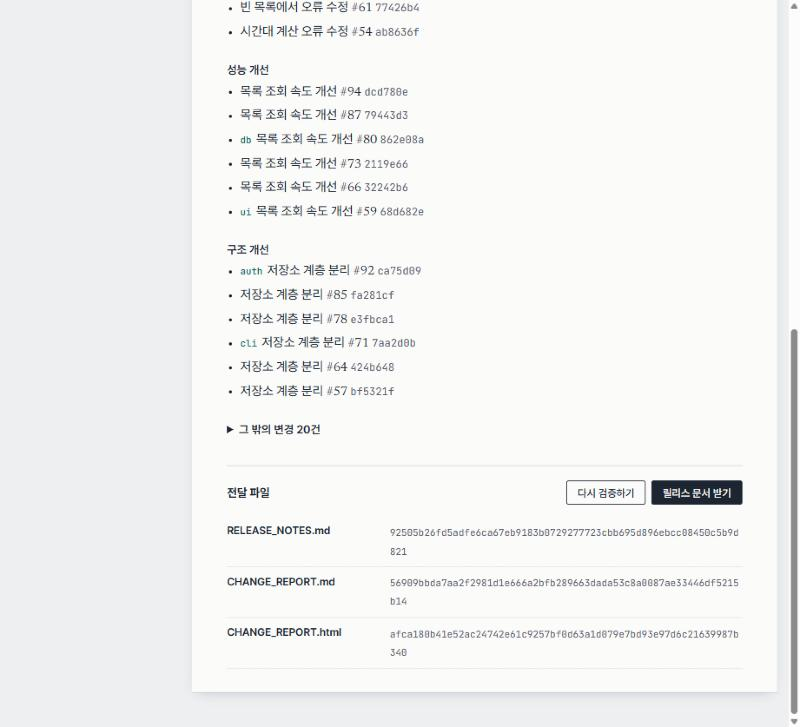
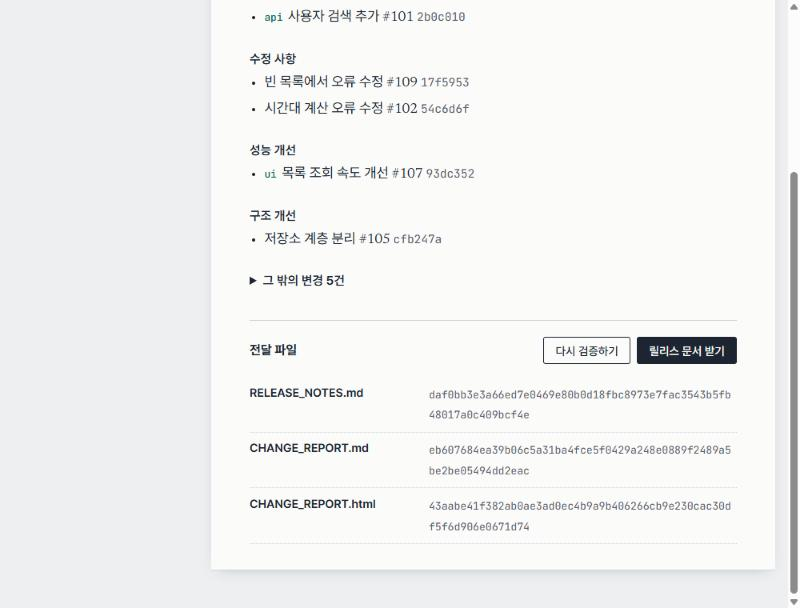
docs: 글꼴 내장, README를 서명·설치·보장 범위 기준으로 갱신, 화면 캡처 교체
- Google Fonts·jsDelivr 대신 @fontsource-variable·pretendard 패키지로 글꼴을 빌드에 포함(OFL)
- README: keygen/--key/--pubkey/--sha256 사용법, 무결성 보장 범위 표, 설치·Docker 실행법, 실제 줄 수와 테스트 수
- 서명 상태가 보이는 화면으로 캡처 3장 교체

diff --git a/web/index.html b/web/index.html
@@ -4,16 +4,6 @@
     <meta charset="utf-8" />
     <meta name="viewport" content="width=device-width, initial-scale=1" />
     <title>ShipNote 릴리스 이력</title>
-    <link rel="preconnect" href="https://fonts.googleapis.com" />
-    <link rel="preconnect" href="https://fonts.gstatic.com" crossorigin />
-    <link
-      href="https://fonts.googleapis.com/css2?family=Archivo:wdth,wght@62..125,500..700&family=JetBrains+Mono:wght@400;500&family=Newsreader:opsz,wght@6..72,400..600&display=swap"
-      rel="stylesheet"
-    />
-    <link
-      rel="stylesheet"
-      href="https://cdn.jsdelivr.net/gh/orioncactus/pretendard@v1.3.9/dist/web/variable/pretendardvariable-dynamic-subset.min.css"
-    />
   </head>
   <body>
     <div id="root"></div>

diff --git a/web/src/styles.css b/web/src/styles.css
@@ -8,9 +8,9 @@
   --seal: #26357a;
   --alert: #b8431f;
   --sans: 'Pretendard Variable', Pretendard, system-ui, sans-serif;
-  --serif: 'Newsreader', 'Pretendard Variable', Georgia, serif;
-  --mono: 'JetBrains Mono', ui-monospace, Consolas, monospace;
-  --head: 'Archivo', 'Pretendard Variable', sans-serif;
+  --serif: 'Newsreader Variable', 'Pretendard Variable', Georgia, serif;
+  --mono: 'JetBrains Mono Variable', ui-monospace, Consolas, monospace;
+  --head: 'Archivo Variable', 'Pretendard Variable', sans-serif;
 }
 
 * { box-sizing: border-box; }

diff --git a/web/src/main.tsx b/web/src/main.tsx
@@ -1,4 +1,9 @@
 import { createRoot } from 'react-dom/client';
+// 글꼴은 빌드 결과물에 함께 넣는다. 외부 CDN 없이 폐쇄망에서도 같은 화면이 나온다(모두 OFL).
+import '@fontsource-variable/archivo/wdth.css';
+import '@fontsource-variable/newsreader/opsz.css';
+import '@fontsource-variable/jetbrains-mono/index.css';
+import 'pretendard/dist/web/variable/pretendardvariable-dynamic-subset.css';
 import { App } from './App.tsx';
 import './styles.css';
 
